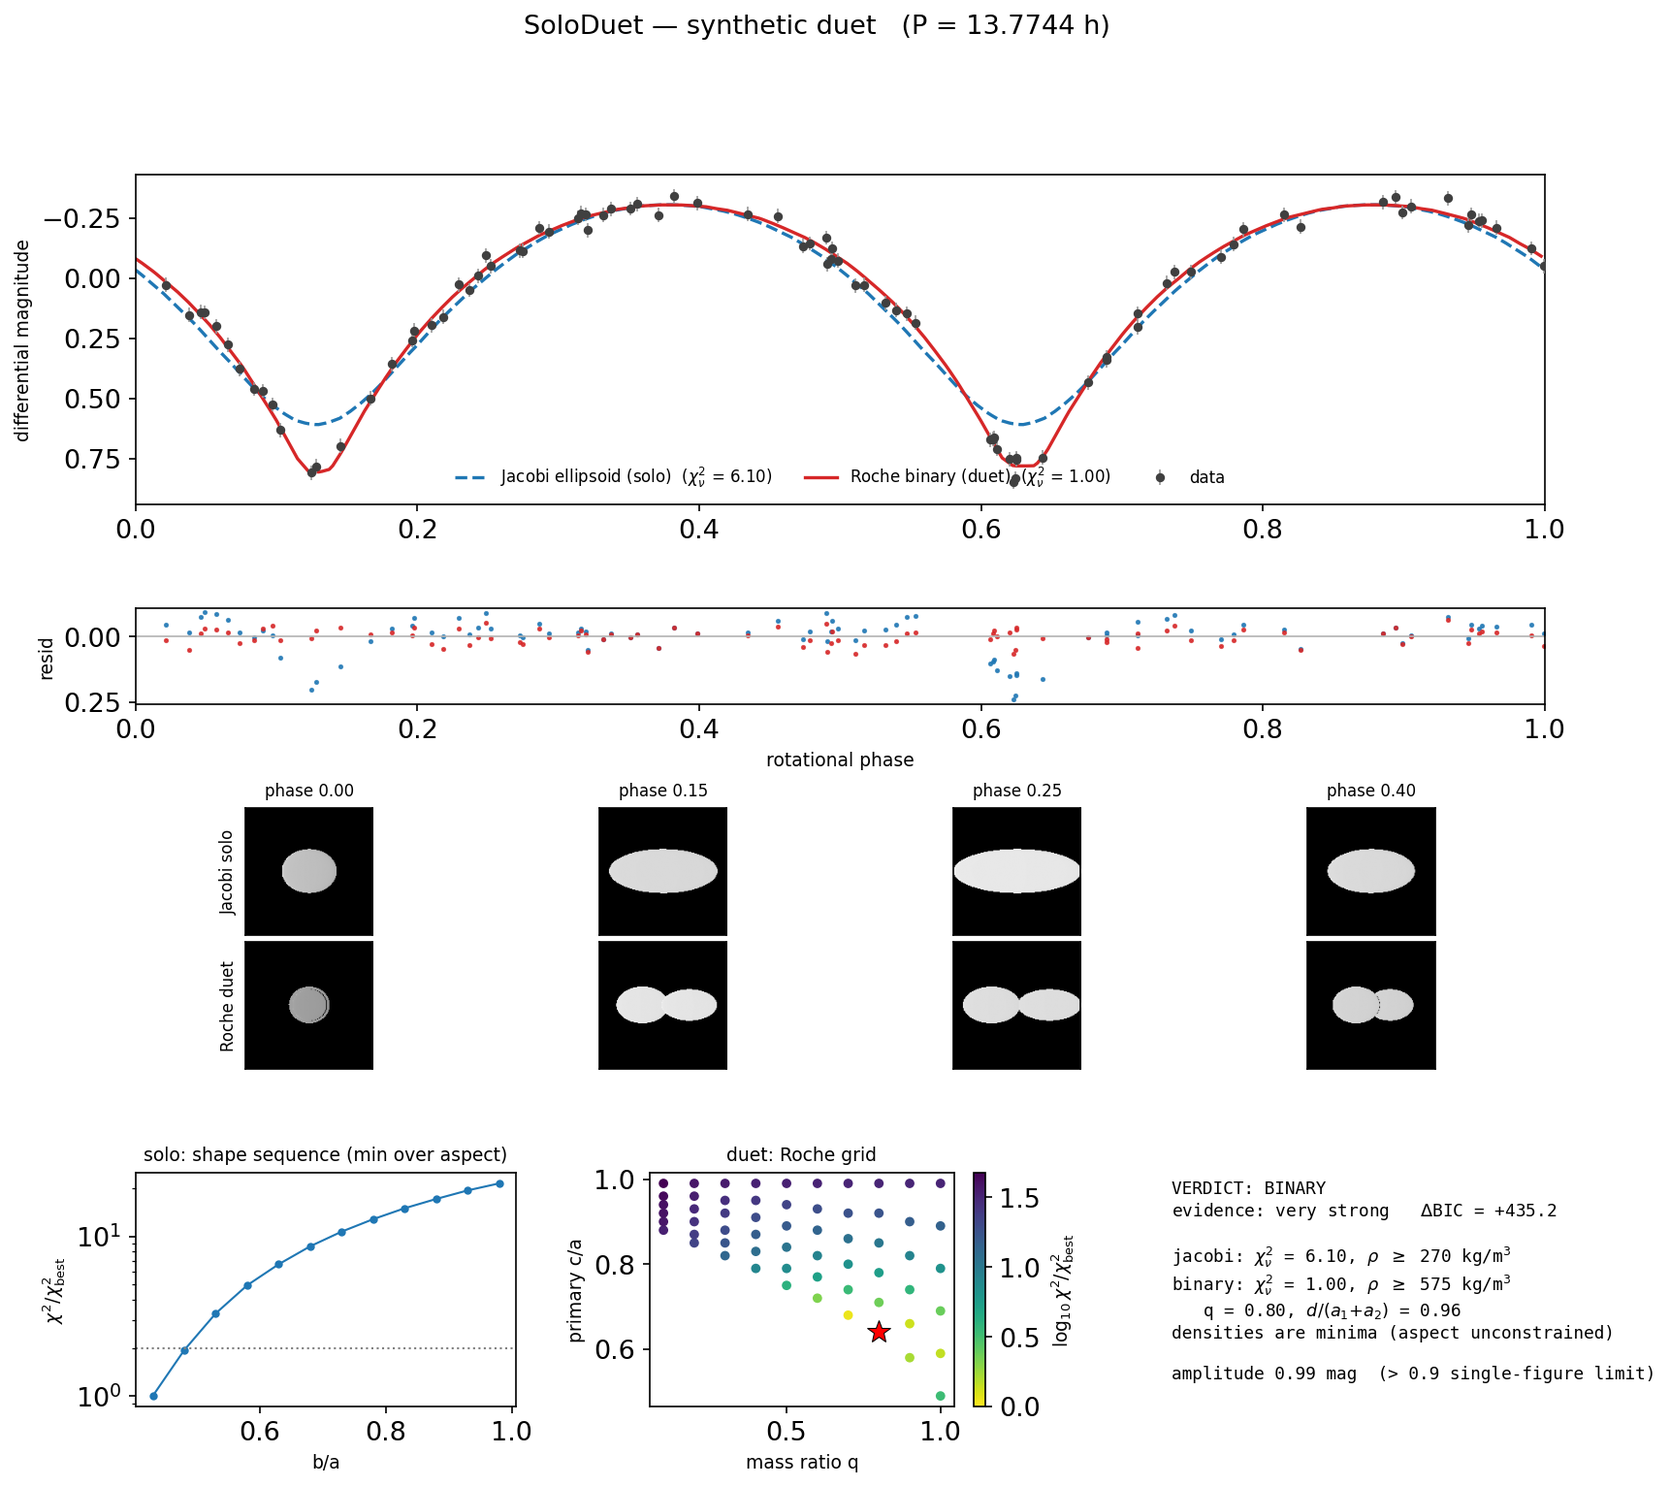
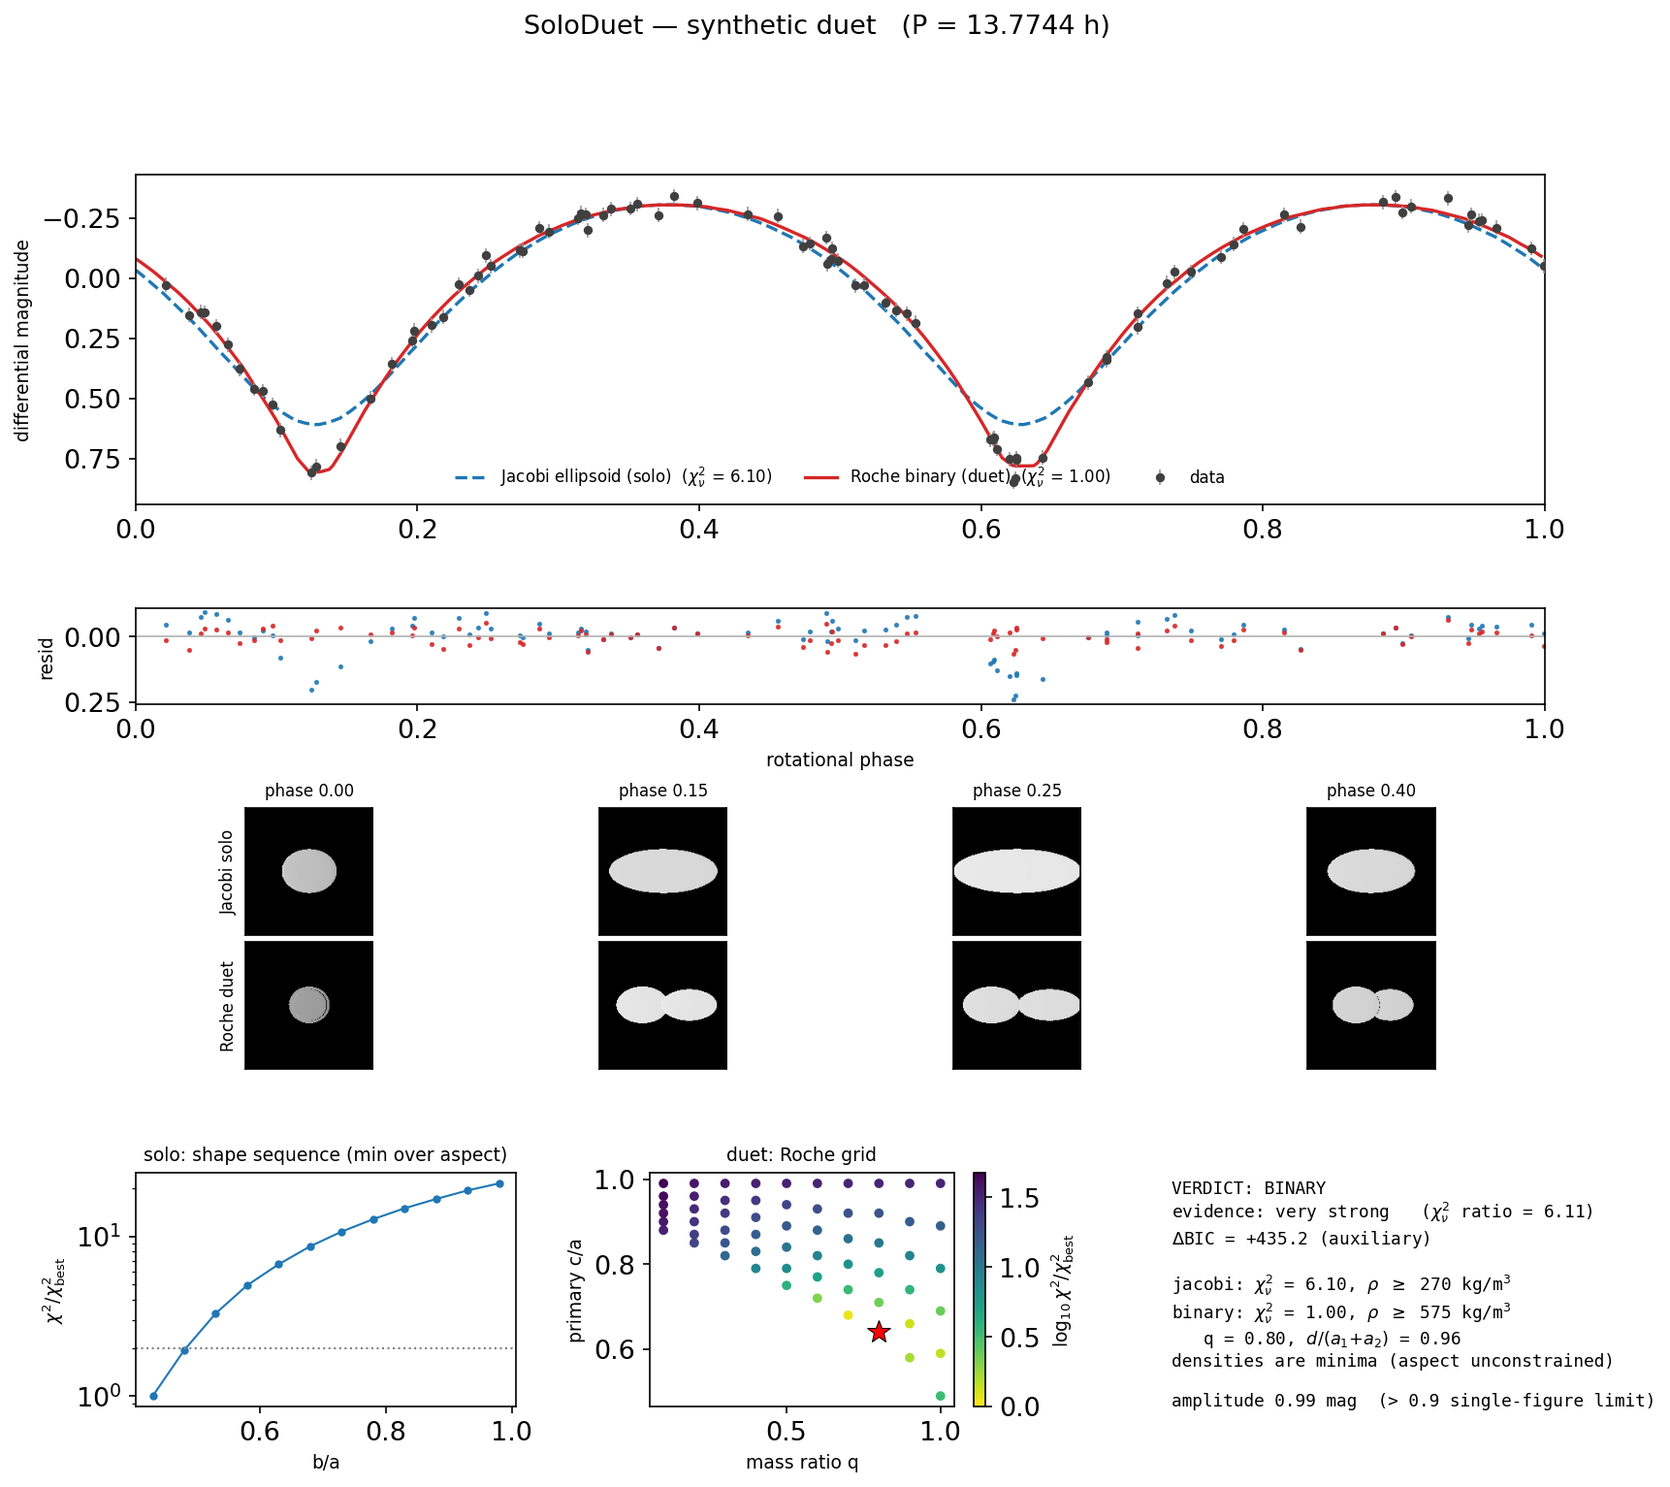
Drive verdicts with a conservative chi2_nu-ratio evidence ladder
Evidence language is now earned by fit quality, not information-criterion arithmetic: ratio < 1.5 -> indistinguishable (no claim, even when the values straddle the chi2_nu = 3 adequacy threshold); 1.5-2 -> weak (moderate if the winner is adequate while the loser is not); >= 2 -> moderate; >= 3 -> strong; >= 5 with an adequate winner -> very strong. The scaled dBIC/dAIC/F-test remain as auxiliary statistics. Rationale: a wide binary can mimic a single ellipsoid's curve almost perfectly, and large datasets amplify meaningless per-point differences into spuriously decisive formal evidence.

Summary/JSON/figures report the chi2_nu ratio alongside the verdict; batch compilation gains a ratio column and sorts by it; solo round-trips may legitimately land indeterminate (parsimony-only) and tests/examples accept that while never allowing a spurious binary. Ladder unit tests pin the real cases: 16152 and 4230 indistinguishable, Kleopatra moderate, Eros weak, QG298 moderate, 222861 knife-edge straddle indistinguishable.

Changed region(s): [[0.7079, 0.7971, 0.9849, 0.9504]]

diff --git a/soloduet/fit.py b/soloduet/fit.py
@@ -91,12 +91,13 @@ class Verdict:
     """
 
     preferred: str                 # "single" | "binary" | "indeterminate"
-    strength: str                  # Kass & Raftery ladder
+    strength: str                  # chi^2_nu-ratio evidence ladder
     delta_bic: float               # scaled BIC(single) - BIC(binary); >0 favors binary
     delta_aic: float
     f_test_p: float
     morphology: compare.MorphologyReport
     chi2_scale: float = 1.0
+    redchi2_ratio: float = 1.0     # loser/winner chi^2_nu — drives `strength`
     caveats: List[str] = field(default_factory=list)
 
 
@@ -143,10 +144,11 @@ class SoloDuetResult:
             lines.append("")
         v = self.verdict
         lines += ["--- verdict ---",
-                  f"  preferred   : {v.preferred.upper()} "
-                  f"({v.strength}, dBIC = {v.delta_bic:+.1f})",
-                  f"  dAIC = {v.delta_aic:+.1f}   F-test p = {v.f_test_p:.3f} "
-                  f"(heuristic)"]
+                  f"  preferred   : {v.preferred.upper()} ({v.strength})",
+                  f"  chi2_nu ratio: {v.redchi2_ratio:.2f} "
+                  "(evidence requires >= 2 for moderate, >= 3 for strong)",
+                  f"  dBIC = {v.delta_bic:+.1f}   dAIC = {v.delta_aic:+.1f}  "
+                  f" F-test p = {v.f_test_p:.3f}   (auxiliary)"]
         if v.chi2_scale > 1.0:
             lines.append(f"  (errors rescaled by chi2_nu = {v.chi2_scale:.2f}"
                          " of the better model before computing dBIC/dAIC,"
@@ -458,18 +460,21 @@ def _verdict(lc: FoldedLightcurve, fits: Dict[str, ModelFit]) -> Verdict:
                        caveats=["both a single and a binary model are needed "
                                 "for a verdict"])
 
-    single = min(singles, key=lambda f: f.bic)
+    single = min(singles, key=lambda f: f.redchi2)
     # error scaling (Lacerda & Jewitt 2007): if even the better model has
     # reduced chi^2 > 1, assume the uncertainties are underestimated by that
-    # factor — otherwise a large, poorly-modelled dataset converts a
-    # meaningless per-point difference into spuriously decisive evidence
+    # factor.  The scaled dBIC/dAIC are *auxiliary* — the verdict itself is
+    # driven by the conservative chi^2_nu-ratio evidence ladder below.
     scale = max(1.0, min(single.redchi2, binary.redchi2))
     delta_bic = ((single.chi2 - binary.chi2) / scale
                  + (single.k - binary.k) * np.log(len(lc)))  # > 0 favors binary
     delta_aic = ((single.chi2 - binary.chi2) / scale
                  + 2.0 * (single.k - binary.k))
     p = compare.f_test_p(single.chi2, single.dof, binary.chi2, binary.dof)
-    strength = compare.bic_strength(delta_bic)
+
+    winner, loser = ((binary, single) if binary.redchi2 < single.redchi2
+                     else (single, binary))
+    strength = compare.chi2_evidence(winner.redchi2, loser.redchi2)
 
     caveats: List[str] = []
     err_floor = float(np.median(lc.err))
@@ -481,12 +486,20 @@ def _verdict(lc: FoldedLightcurve, fits: Dict[str, ModelFit]) -> Verdict:
                        "verdict is possible")
     elif strength == "indistinguishable":
         preferred = "indeterminate"
-        caveats.append("models are statistically indistinguishable from this "
-                       "light curve alone (cf. 2000 GN171 in Lacerda & "
-                       "Jewitt 2007)")
+        if max(single.redchi2, binary.redchi2) < compare.ADEQUATE_REDCHI2:
+            side = "single" if delta_bic < 0 else "binary"
+            caveats.append("both models describe the data adequately and "
+                           "cannot be told apart (chi2_nu ratio "
+                           f"{loser.redchi2 / winner.redchi2:.2f}); only "
+                           f"parsimony (dBIC) leans {side} — cf. 2000 GN171 "
+                           "in Lacerda & Jewitt 2007")
+        else:
+            caveats.append("models are statistically indistinguishable from "
+                           "this light curve alone (chi2_nu ratio "
+                           f"{loser.redchi2 / winner.redchi2:.2f})")
     else:
-        preferred = "binary" if delta_bic > 0 else "single"
-    if min(single.redchi2, binary.redchi2) > 3.0:
+        preferred = "binary" if winner is binary else "single"
+    if min(single.redchi2, binary.redchi2) > compare.ADEQUATE_REDCHI2:
         caveats.append("neither model describes the data well "
                        "(reduced chi^2 > 3): consider albedo variegation, "
                        "non-principal-axis rotation, or a wrong period")
@@ -509,7 +522,9 @@ def _verdict(lc: FoldedLightcurve, fits: Dict[str, ModelFit]) -> Verdict:
     return Verdict(preferred=preferred, strength=strength,
                    delta_bic=float(delta_bic), delta_aic=float(delta_aic),
                    f_test_p=float(p), morphology=morph,
-                   chi2_scale=float(scale), caveats=caveats)
+                   chi2_scale=float(scale),
+                   redchi2_ratio=float(loser.redchi2 / winner.redchi2),
+                   caveats=caveats)
 
 
 __all__ = [

diff --git a/batch_fit.py b/batch_fit.py
@@ -63,7 +63,8 @@ DEFAULT_G = 0.15
 SMEAR_WARN = 0.05
 
 CSV_FIELDS = [
-    "object", "verdict", "strength", "dbic", "chi2_scale", "n_points",
+    "object", "verdict", "strength", "redchi2_ratio", "dbic", "chi2_scale",
+    "n_points",
     "n_files", "span_days", "period_hr", "period_err_hr", "G", "G_err",
     "phase_smear", "alpha_med_deg", "amplitude_mag", "exceeds_0p9_limit",
     "jacobi_redchi2", "jacobi_b_over_a", "jacobi_rho_min_kgm3",
@@ -254,6 +255,7 @@ def fit_object(entry: dict, outdir: str, fit_kw: dict) -> dict:
         "object": entry["object"],
         "verdict": v.preferred,
         "strength": v.strength,
+        "redchi2_ratio": round(v.redchi2_ratio, 2),
         "dbic": round(v.delta_bic, 1),
         "chi2_scale": round(v.chi2_scale, 2),
         "n_points": len(lc),
@@ -281,20 +283,32 @@ def fit_object(entry: dict, outdir: str, fit_kw: dict) -> dict:
 
 
 def write_summary_table(rows: list, path: str) -> None:
-    order = np.argsort([-r["dbic"] for r in rows])
+    # duet-preferred first (by chi^2_nu ratio, the evidence driver), then
+    # indeterminate, then single-preferred
+    def sort_key(r):
+        rank = {"binary": 0, "indeterminate": 1, "single": 2}.get(
+            r["verdict"], 1)
+        ratio = float(r.get("redchi2_ratio", 1.0) or 1.0)
+        return (rank, -ratio if rank == 0 else ratio)
+
+    order = sorted(range(len(rows)), key=lambda i: sort_key(rows[i]))
     with open(path, "w") as fh:
-        fh.write("SoloDuet batch compilation -- sorted by dBIC "
-                 "(duet-like first; dBIC > 0 favors the binary)\n")
+        fh.write("SoloDuet batch compilation -- duet-like first; evidence "
+                 "labels follow the chi^2_nu-ratio ladder\n"
+                 "(>= 2 moderate, >= 3 strong, >= 5 + adequate fit very "
+                 "strong; dBIC is auxiliary)\n")
         fh.write("=" * 100 + "\n")
         fh.write("(binary rho values are MINIMA: the aspect angle is "
                  "unconstrained)\n")
-        fh.write("%-10s %-14s %-13s %8s %6s %6s %8s %8s %8s %11s %6s\n" % (
-            "object", "verdict", "strength", "dBIC", "n", "amp",
+        fh.write("%-10s %-14s %-13s %6s %8s %6s %6s %8s %8s %8s %11s %6s\n" % (
+            "object", "verdict", "strength", "ratio", "dBIC", "n", "amp",
             "chi2_jac", "chi2_bin", "q", "rho_bin_min", "smear"))
         for i in order:
             r = rows[i]
-            fh.write("%-10s %-14s %-13s %8.1f %6d %6.2f %8s %8s %8s %11s %6s\n"
-                     % (r["object"], r["verdict"], r["strength"], r["dbic"],
+            fh.write("%-10s %-14s %-13s %6s %8.1f %6d %6.2f %8s %8s %8s %11s "
+                     "%6s\n"
+                     % (r["object"], r["verdict"], r["strength"],
+                        r.get("redchi2_ratio", ""), r["dbic"],
                         r["n_points"], r["amplitude_mag"],
                         r["jacobi_redchi2"], r["binary_redchi2"],
                         r["binary_q"], r["binary_rho_min_kgm3"],

diff --git a/soloduet/compare.py b/soloduet/compare.py
@@ -129,7 +129,7 @@ def f_test_p(chi2_a: float, dof_a: int, chi2_b: float, dof_b: int) -> float:
 
 
 def bic_strength(delta_bic: float) -> str:
-    """Kass & Raftery (1995) evidence ladder for |Delta BIC|."""
+    """Kass & Raftery (1995) evidence ladder for |Delta BIC| (auxiliary)."""
     d = abs(delta_bic)
     if d < 2.0:
         return "indistinguishable"
@@ -138,6 +138,45 @@ def bic_strength(delta_bic: float) -> str:
     if d < 10.0:
         return "strong"
     return "very strong"
+
+
+#: reduced chi^2 below which a model is considered an adequate description
+ADEQUATE_REDCHI2 = 3.0
+
+#: chi^2_nu ratio thresholds of the conservative evidence ladder
+RATIO_CLAIM = 1.5      # below this: no preference is claimed at all
+RATIO_MODERATE = 2.0
+RATIO_STRONG = 3.0
+RATIO_VERY_STRONG = 5.0
+
+
+def chi2_evidence(redchi2_winner: float, redchi2_loser: float) -> str:
+    """Conservative evidence label from the reduced-chi^2 comparison.
+
+    Evidence language is earned by *fit quality*, not by information-
+    criterion arithmetic: similar chi^2_nu values mean the models cannot be
+    told apart no matter how many data points sharpen the formal
+    statistics.  The ladder:
+
+    * ratio < 1.5 — ``"indistinguishable"`` (no preference claimed, even if
+      the two values happen to straddle the adequacy threshold);
+    * ratio < 2 — ``"weak"`` unless the winner is adequate
+      (chi^2_nu < 3) while the loser is not, which earns ``"moderate"``;
+    * ratio >= 2 — ``"moderate"``;
+    * ratio >= 3 — ``"strong"``;
+    * ratio >= 5 *and* the winner adequate — ``"very strong"``.
+    """
+    ratio = redchi2_loser / max(redchi2_winner, 1e-12)
+    adequacy_split = (redchi2_winner < ADEQUATE_REDCHI2 <= redchi2_loser)
+    if ratio < RATIO_CLAIM:
+        return "indistinguishable"
+    if ratio >= RATIO_VERY_STRONG and redchi2_winner < ADEQUATE_REDCHI2:
+        return "very strong"
+    if ratio >= RATIO_STRONG:
+        return "strong"
+    if ratio >= RATIO_MODERATE or adequacy_split:
+        return "moderate"
+    return "weak"
 
 
 # ---------------------------------------------------------------------------
@@ -242,6 +281,12 @@ __all__ = [
     "bic",
     "f_test_p",
     "bic_strength",
+    "chi2_evidence",
+    "ADEQUATE_REDCHI2",
+    "RATIO_CLAIM",
+    "RATIO_MODERATE",
+    "RATIO_STRONG",
+    "RATIO_VERY_STRONG",
     "MorphologyReport",
     "morphology",
     "SINGLE_FIGURE_LIMIT",

diff --git a/tests/test_compare.py b/tests/test_compare.py
@@ -54,6 +54,24 @@ def test_information_criteria():
     assert bic_strength(20.0) == "very strong"
 
 
+def test_chi2_evidence_ladder():
+    from soloduet.compare import chi2_evidence
+
+    # real cases from this repo's field tests / survey work
+    assert chi2_evidence(7.25, 7.36) == "indistinguishable"   # (16152)
+    assert chi2_evidence(31.7, 33.3) == "indistinguishable"   # (4230)
+    # a hair's-breadth adequacy straddle must NOT earn moderate: near-equal
+    # chi^2_nu values support no claim regardless of the 3.0 threshold
+    assert chi2_evidence(2.76, 3.45) == "indistinguishable"   # (222861)
+    assert chi2_evidence(4.8, 8.3) == "weak"                  # (433) Eros
+    assert chi2_evidence(2.8, 6.9) == "moderate"              # (216) Kleopatra
+    assert chi2_evidence(0.94, 1.90) == "moderate"            # 2001 QG298
+    # ladder thresholds
+    assert chi2_evidence(2.0, 6.5) == "strong"                # ratio 3.25
+    assert chi2_evidence(1.0, 5.5) == "very strong"           # ratio 5.5, adequate
+    assert chi2_evidence(4.0, 21.0) == "strong"               # ratio > 5 but winner poor
+
+
 def test_morphology_sinusoid_vs_notched():
     ph = np.linspace(0, 1, 300, endpoint=False)
     # pure sinusoid (ellipsoid-like): curvature ratio ~ 1, small odd power

diff --git a/tests/test_fit.py b/tests/test_fit.py
@@ -51,7 +51,10 @@ def test_solo_roundtrip():
     lc = sd.FoldedLightcurve(phase=ph, dmag=dm, err=np.full(80, 0.02),
                              period_hr=7.0, alpha_deg=1.0)
     res = sd.fit_lightcurve(lc, **FAST_KW)
-    assert res.verdict.preferred == "single"
+    # under the conservative chi^2_nu-ratio ladder a smooth ellipsoid curve
+    # may be formally indistinguishable from a wide binary (only parsimony
+    # separates them) — but it must never be called a binary
+    assert res.verdict.preferred in ("single", "indeterminate")
     j = res.fits["jacobi"]
     assert j.params["b_over_a"] == pytest.approx(0.60, abs=0.06)
     assert j.redchi2 < 2.0

diff --git a/example.py b/example.py
@@ -65,7 +65,9 @@ def main() -> int:
     ba_lo, ba_hi = j.within_1sig.get(
         "b_over_a", (j.params["b_over_a"] - 0.1, j.params["b_over_a"] + 0.1))
     checks = [
-        ("verdict is SINGLE", result.verdict.preferred == "single"),
+        ("verdict is SINGLE or honestly indeterminate (a wide duet can "
+         "mimic a smooth ellipsoid curve; it must just never win)",
+         result.verdict.preferred in ("single", "indeterminate")),
         (f"true b/a = {TRUE_BA} consistent with the 1-sigma range "
          f"[{ba_lo:.2f}, {ba_hi:.2f}] +/- the 0.03 grid spacing "
          f"(best {j.params['b_over_a']:.3f}; aspect-shape degeneracy)",

diff --git a/soloduet/plotting.py b/soloduet/plotting.py
@@ -167,7 +167,8 @@ def plot_verdict_panel(result, ax):
     v = result.verdict
     lines = [f"VERDICT: {v.preferred.upper()}",
              f"evidence: {v.strength}   "
-             + r"$\Delta$BIC = " + f"{v.delta_bic:+.1f}"]
+             + r"($\chi^2_\nu$ ratio = " + f"{v.redchi2_ratio:.2f})",
+             r"$\Delta$BIC = " + f"{v.delta_bic:+.1f} (auxiliary)"]
     if v.chi2_scale > 1.0:
         lines.append(r"(errors rescaled by $\chi^2_\nu$ = "
                      + f"{v.chi2_scale:.2f})")

diff --git a/soloduet/cli.py b/soloduet/cli.py
@@ -118,6 +118,7 @@ def _result_json(result) -> dict:
         "verdict": {
             "preferred": result.verdict.preferred,
             "strength": result.verdict.strength,
+            "redchi2_ratio": result.verdict.redchi2_ratio,
             "delta_bic": result.verdict.delta_bic,
             "delta_aic": result.verdict.delta_aic,
             "f_test_p": result.verdict.f_test_p,

diff --git a/README.md b/README.md
@@ -103,21 +103,30 @@ model-independent morphology diagnostics:
   broaden with α [1]);
 * unequal minima / odd-harmonic power indicate component asymmetry.
 
-#### How to read the verdict (ΔBIC)
+#### How to read the verdict
 
-Each model is scored with the Bayesian Information Criterion,
-`BIC = χ² + k ln n` (Schwarz 1978 [10]), i.e. its χ² **plus a penalty for
-free parameters** — the binary model (k = 5) has one more knob than the
-Jacobi solo (k = 4) and must earn it. SoloDuet reports
+**Evidence language is earned by fit quality, not by information-criterion
+arithmetic.** A binary can mimic a single ellipsoid's light curve almost
+perfectly at modest amplitudes, and with enough data points any formal
+statistic will amplify a meaningless per-point difference. SoloDuet
+therefore drives the verdict with the **reduced-χ² ratio** of the two
+competing best fits, on a deliberately conservative ladder:
 
-> `dBIC = BIC(single) − BIC(binary)` — **positive favors the duet,
-> negative the solo.**
+| χ²ᵥ ratio (worse/better) | label |
+|---|---|
+| < 1.5 | **indistinguishable** — verdict "indeterminate", no preference claimed |
+| 1.5 – 2 | *weak* (upgraded to *moderate* if the winner fits adequately, χ²ᵥ < 3, while the loser does not) |
+| ≥ 2 | *moderate* |
+| ≥ 3 | *strong* |
+| ≥ 5, winner adequate (χ²ᵥ < 3) | *very strong* |
 
-The strength labels follow the Kass & Raftery (1995) evidence ladder [9]:
-|ΔBIC| < 2 → statistically **indistinguishable** (verdict "indeterminate"),
-2–6 → *positive* evidence, 6–10 → *strong*, > 10 → *very strong*. Because
-ΔBIC ≈ 2 ln(Bayes factor), ΔBIC = 10 already corresponds to odds of
-~150 : 1 in favor of the winning model.
+Auxiliary statistics are still reported for context: `dBIC = BIC(single) −
+BIC(binary)` (positive favors the duet; Schwarz 1978 [10]; Kass & Raftery
+1995 [9]), computed after rescaling the errors so the better model has
+χ²ᵥ = 1 when it exceeds it (the Lacerda & Jewitt 2007 convention), plus
+ΔAIC and a heuristic F-test. When *neither* model is adequate (both
+χ²ᵥ > 3), the summary says so explicitly — a shape preference between two
+inadequate models is not evidence.
 
 **Error scaling.** ΔBIC is only meaningful if the photometric uncertainties
 are realistic. When even the better of the two models has χ²ᵥ > 1, both χ²
@@ -264,8 +273,8 @@ pipeline:
 
 | object | ground truth | SoloDuet verdict | recovered vs. truth |
 |---|---|---|---|
-| (216) Kleopatra | bilobed "dog-bone" (radar/AO: Ostro et al. 2000; Shepard et al. 2018); ρ = 3.38 g/cm³ from its moons (Marchis et al. 2021) | **BINARY** (very strong, ΔBIC = +36, error-scaled) | contact separation d/(a₁+a₂) = 1.00; ρ = 3.78 g/cm³ (12% above the satellite-orbit value) |
-| (433) Eros | single elongated body (NEAR Shoemaker: 34.4 × 11.2 × 11.2 km; Veverka et al. 2000) | **SINGLE** (very strong, ΔBIC = −92, error-scaled) | free-ellipsoid b/a = 0.39 vs. 0.33 in situ; binary model rejected at χ²ᵥ 8.3 vs. 4.8 |
+| (216) Kleopatra | bilobed "dog-bone" (radar/AO: Ostro et al. 2000; Shepard et al. 2018); ρ = 3.38 g/cm³ from its moons (Marchis et al. 2021) | **BINARY** (moderate; χ²ᵥ ratio 2.5, adequate vs. inadequate) | contact separation d/(a₁+a₂) = 1.00; ρ = 3.78 g/cm³ (12% above the satellite-orbit value) |
+| (433) Eros | single elongated body (NEAR Shoemaker: 34.4 × 11.2 × 11.2 km; Veverka et al. 2000) | **SINGLE** (weak preference; χ²ᵥ ratio 1.7) | free-ellipsoid b/a = 0.39 vs. 0.33 in situ; binary χ²ᵥ 8.3 vs. 4.8 |
 
 ![Kleopatra fit](docs/images/kleopatra_fit.png)
 
